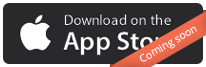
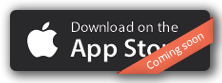
new images, new app screenshots, some text

diff --git a/dist/index.html b/dist/index.html
@@ -50,8 +50,8 @@
                     <img src="images/logoapp-in.png" class="logo displayed" height="200px">
                     <div class="center">
                         <div class="download-btns">
-                            <a href="#"><img src="images/apple.png" class="shadow"></a>
-                            <a href="#"><img src="images/android.png" class="shadow"></a>
+                            <a href="#"><img src="images/apple-c.png"></a>
+                            <a href="#"><img src="images/android-c.png"></a>
                         </div>
                     </div>
                 </div>
@@ -64,7 +64,7 @@
     <div class="stripe">
         <div class="container center">
             <h2>We needed a way to find friends in a crowd.</h2>
-            <p>Why isn't there a better way to have get feedback on a beer tasting event, or to let your team vote on which pizzas to order? Well, there is now. <strong>Rating or voting</strong> on something is what this app is all about. </p>
+            <p>Why isn't there a better way to find someone in Santos Populares, or to let your mates to know your exact location, rather then endless phone calls, not so awsome directions, and shouting? Well, there is now. <strong>Don't ever loose your gang</strong> in Santos, that's what this app is all about. </p>
         </div>
     </div>
 
@@ -74,16 +74,17 @@
                 <div class="col-sm-5">
                     <h2>We made an app for it.</h2>
                     <p>
-                        MuchVote, SuchRate by Donderlab is here to fill a gap in every friend's bar table, in every top world conference or in every casual event.
+                        inSantos by Donderlab is here to light your way to every friend who is in the same city as you, partying in the same neighborhood, but fate is not enough for your paths to cross.
                         <br>
-                        Now you can turn things interactive! You can throw your opinion out there, and keep track of every data you want.
-                        Choose your target, choose your method, create a session - and start Voting!
+                        You can turn things interactive! You can allow others to know where you are, and keep track of every friend in town.
+                        <br>
+                        Choose your friend, locate him, see your directions - and go!
                     </p>
 
 
                 </div>
                 <div class="col-sm-6 col-sm-offset-1">
-                    <img src="images/montage1.png" class="no-margin">
+                    <img src="images/montage1-in.png" class="no-margin">
                 </div>
             </div>
         </div>
@@ -94,16 +95,16 @@
             <h2 class="center">How did we make it?</h2>
             <p class="center">Five days, two offices and too many pizzas later, we came up with an App.</p>
 
-            <img src="images/banner.jpg" id="team-banner">
+            <img src="images/banner-in.jpg" id="team-banner">
 
             <p class="center">In the heart of the Lisbon, by the sunny riverside and surrounded by a great team. This was the perfect scenario for experiments and creation. Apart from building a simple voting app, we wanted to make sure things would be interesting, and developing some kind of challenge to the team. So more than a product, the learning key was a must. With that we came up with two targets to hit: React native and Python.</p>
             
             <div class="row">
                 <div class="col-sm-4">
-                    <img src="images/reactNe.png" id="react-logo">
+                    <img src="images/ionic.png" id="ionic-logo">
                 </div>
                 <div class="col-sm-7 col-sm-offset-1">
-                    <h2>React native</h2>
+                    <h2>Ionic</h2>
                     <p>
                         Going native with React Native. "Learn once, write anywhere" that's the React Native promise, you can use the experience you have building great user interfaces from the web to mobile. Instead of having React.JS render the components to DOM elements in the browser it is run on a background thread on a instance of JavaScriptCore which renders to platform-specific native components.
                         <br>
@@ -114,10 +115,10 @@
             <br>
             <div class="row">
                 <div class="col-sm-4">
-                    <img src="images/flasklogo.png" id="flask-logo">
+                    <img src="images/node.png" id="node-logo">
                 </div>
                 <div class="col-sm-7 col-sm-offset-1">
-                    <h2>Python / Flask</h2>
+                    <h2>Node.js</h2>
                     <p>
                         Why python? Python is known for being a very readable programming language which makes it a perfect language to build a simple REST API and by being easy to understand, the code is easier to maintain (by you or by others).
                         <br>
@@ -143,10 +144,10 @@
                 </div>
             </div>-->
                 <div class="col-sm-12 screenshots">
-                    <img src="images/app01.jpg" class="img-app">
-                    <img src="images/app02.jpg" class="img-app">
-                    <img src="images/app03.jpg" class="img-app">
-                    <img src="images/app04.jpg" class="img-app">
+                    <img src="images/app01-in.jpg" class="img-app">
+                    <img src="images/app02-in.jpg" class="img-app">
+                    <img src="images/app02-in.jpg" class="img-app">
+                    <img src="images/app02-in.jpg" class="img-app">
                 </div>
             </div>
         </div>
@@ -156,8 +157,8 @@
             <h2>Read more about this.</h2>
             <p>Take a look at some of the articles we've been writing along the way.</p>
             <ul id="bloglist">
-                <h3><li><a href="http://blog.cloudoki.com/going-native/">Going Native</a></li></h3>
-                <h3><li><a href="http://blog.cloudoki.com/getting-started-with-restful-apis-using-the-flask-microframework-for-python/">Getting started with restful APIs</a></li></h3>
+                <h3><li><a href="http://blog.cloudoki.com/">Still working on it...</a></li></h3>
+                <h3><li><a href="http://blog.cloudoki.com/">Almost there...</a></li></h3>
             </ul>
         </div>
     </div>

diff --git a/src/index.html b/src/index.html
@@ -50,8 +50,8 @@
                     <img src="images/logoapp-in.png" class="logo displayed" height="200px">
                     <div class="center">
                         <div class="download-btns">
-                            <a href="#"><img src="images/apple.png" class="shadow"></a>
-                            <a href="#"><img src="images/android.png" class="shadow"></a>
+                            <a href="#"><img src="images/apple-c.png"></a>
+                            <a href="#"><img src="images/android-c.png"></a>
                         </div>
                     </div>
                 </div>
@@ -64,7 +64,7 @@
     <div class="stripe">
         <div class="container center">
             <h2>We needed a way to find friends in a crowd.</h2>
-            <p>Why isn't there a better way to have get feedback on a beer tasting event, or to let your team vote on which pizzas to order? Well, there is now. <strong>Rating or voting</strong> on something is what this app is all about. </p>
+            <p>Why isn't there a better way to find someone in Santos Populares, or to let your mates to know your exact location, rather then endless phone calls, not so awsome directions, and shouting? Well, there is now. <strong>Don't ever loose your gang</strong> in Santos, that's what this app is all about. </p>
         </div>
     </div>
 
@@ -74,16 +74,17 @@
                 <div class="col-sm-5">
                     <h2>We made an app for it.</h2>
                     <p>
-                        MuchVote, SuchRate by Donderlab is here to fill a gap in every friend's bar table, in every top world conference or in every casual event.
+                        inSantos by Donderlab is here to light your way to every friend who is in the same city as you, partying in the same neighborhood, but fate is not enough for your paths to cross.
                         <br>
-                        Now you can turn things interactive! You can throw your opinion out there, and keep track of every data you want.
-                        Choose your target, choose your method, create a session - and start Voting!
+                        You can turn things interactive! You can allow others to know where you are, and keep track of every friend in town.
+                        <br>
+                        Choose your friend, locate him, see your directions - and go!
                     </p>
 
 
                 </div>
                 <div class="col-sm-6 col-sm-offset-1">
-                    <img src="images/montage1.png" class="no-margin">
+                    <img src="images/montage1-in.png" class="no-margin">
                 </div>
             </div>
         </div>
@@ -94,16 +95,16 @@
             <h2 class="center">How did we make it?</h2>
             <p class="center">Five days, two offices and too many pizzas later, we came up with an App.</p>
 
-            <img src="images/banner.jpg" id="team-banner">
+            <img src="images/banner-in.jpg" id="team-banner">
 
             <p class="center">In the heart of the Lisbon, by the sunny riverside and surrounded by a great team. This was the perfect scenario for experiments and creation. Apart from building a simple voting app, we wanted to make sure things would be interesting, and developing some kind of challenge to the team. So more than a product, the learning key was a must. With that we came up with two targets to hit: React native and Python.</p>
             
             <div class="row">
                 <div class="col-sm-4">
-                    <img src="images/reactNe.png" id="react-logo">
+                    <img src="images/ionic.png" id="ionic-logo">
                 </div>
                 <div class="col-sm-7 col-sm-offset-1">
-                    <h2>React native</h2>
+                    <h2>Ionic</h2>
                     <p>
                         Going native with React Native. "Learn once, write anywhere" that's the React Native promise, you can use the experience you have building great user interfaces from the web to mobile. Instead of having React.JS render the components to DOM elements in the browser it is run on a background thread on a instance of JavaScriptCore which renders to platform-specific native components.
                         <br>
@@ -114,10 +115,10 @@
             <br>
             <div class="row">
                 <div class="col-sm-4">
-                    <img src="images/flasklogo.png" id="flask-logo">
+                    <img src="images/node.png" id="node-logo">
                 </div>
                 <div class="col-sm-7 col-sm-offset-1">
-                    <h2>Python / Flask</h2>
+                    <h2>Node.js</h2>
                     <p>
                         Why python? Python is known for being a very readable programming language which makes it a perfect language to build a simple REST API and by being easy to understand, the code is easier to maintain (by you or by others).
                         <br>
@@ -143,10 +144,10 @@
                 </div>
             </div>-->
                 <div class="col-sm-12 screenshots">
-                    <img src="images/app01.jpg" class="img-app">
-                    <img src="images/app02.jpg" class="img-app">
-                    <img src="images/app03.jpg" class="img-app">
-                    <img src="images/app04.jpg" class="img-app">
+                    <img src="images/app01-in.jpg" class="img-app">
+                    <img src="images/app02-in.jpg" class="img-app">
+                    <img src="images/app02-in.jpg" class="img-app">
+                    <img src="images/app02-in.jpg" class="img-app">
                 </div>
             </div>
         </div>
@@ -156,8 +157,8 @@
             <h2>Read more about this.</h2>
             <p>Take a look at some of the articles we've been writing along the way.</p>
             <ul id="bloglist">
-                <h3><li><a href="http://blog.cloudoki.com/going-native/">Going Native</a></li></h3>
-                <h3><li><a href="http://blog.cloudoki.com/getting-started-with-restful-apis-using-the-flask-microframework-for-python/">Getting started with restful APIs</a></li></h3>
+                <h3><li><a href="http://blog.cloudoki.com/">Still working on it...</a></li></h3>
+                <h3><li><a href="http://blog.cloudoki.com/">Almost there...</a></li></h3>
             </ul>
         </div>
     </div>

diff --git a/dist/css/main.css b/dist/css/main.css
@@ -43,9 +43,9 @@ header .row-header {
     margin-bottom: -80px; }
   .stripe #team-banner {
     margin: 50px 0; }
-  .stripe #react-logo {
+  .stripe #ionic-logo {
     margin-top: 50px; }
-  .stripe #flask-logo {
+  .stripe #node-logo {
     margin-top: 50px; }
 
 .jumbotron1 {

diff --git a/src/css/style.scss b/src/css/style.scss
@@ -66,11 +66,11 @@ header {
     margin: 50px 0;
   }
 
-  #react-logo {
+  #ionic-logo {
     margin-top: 50px;
   }
 
-  #flask-logo {
+  #node-logo {
     margin-top: 50px;
   }
 }
